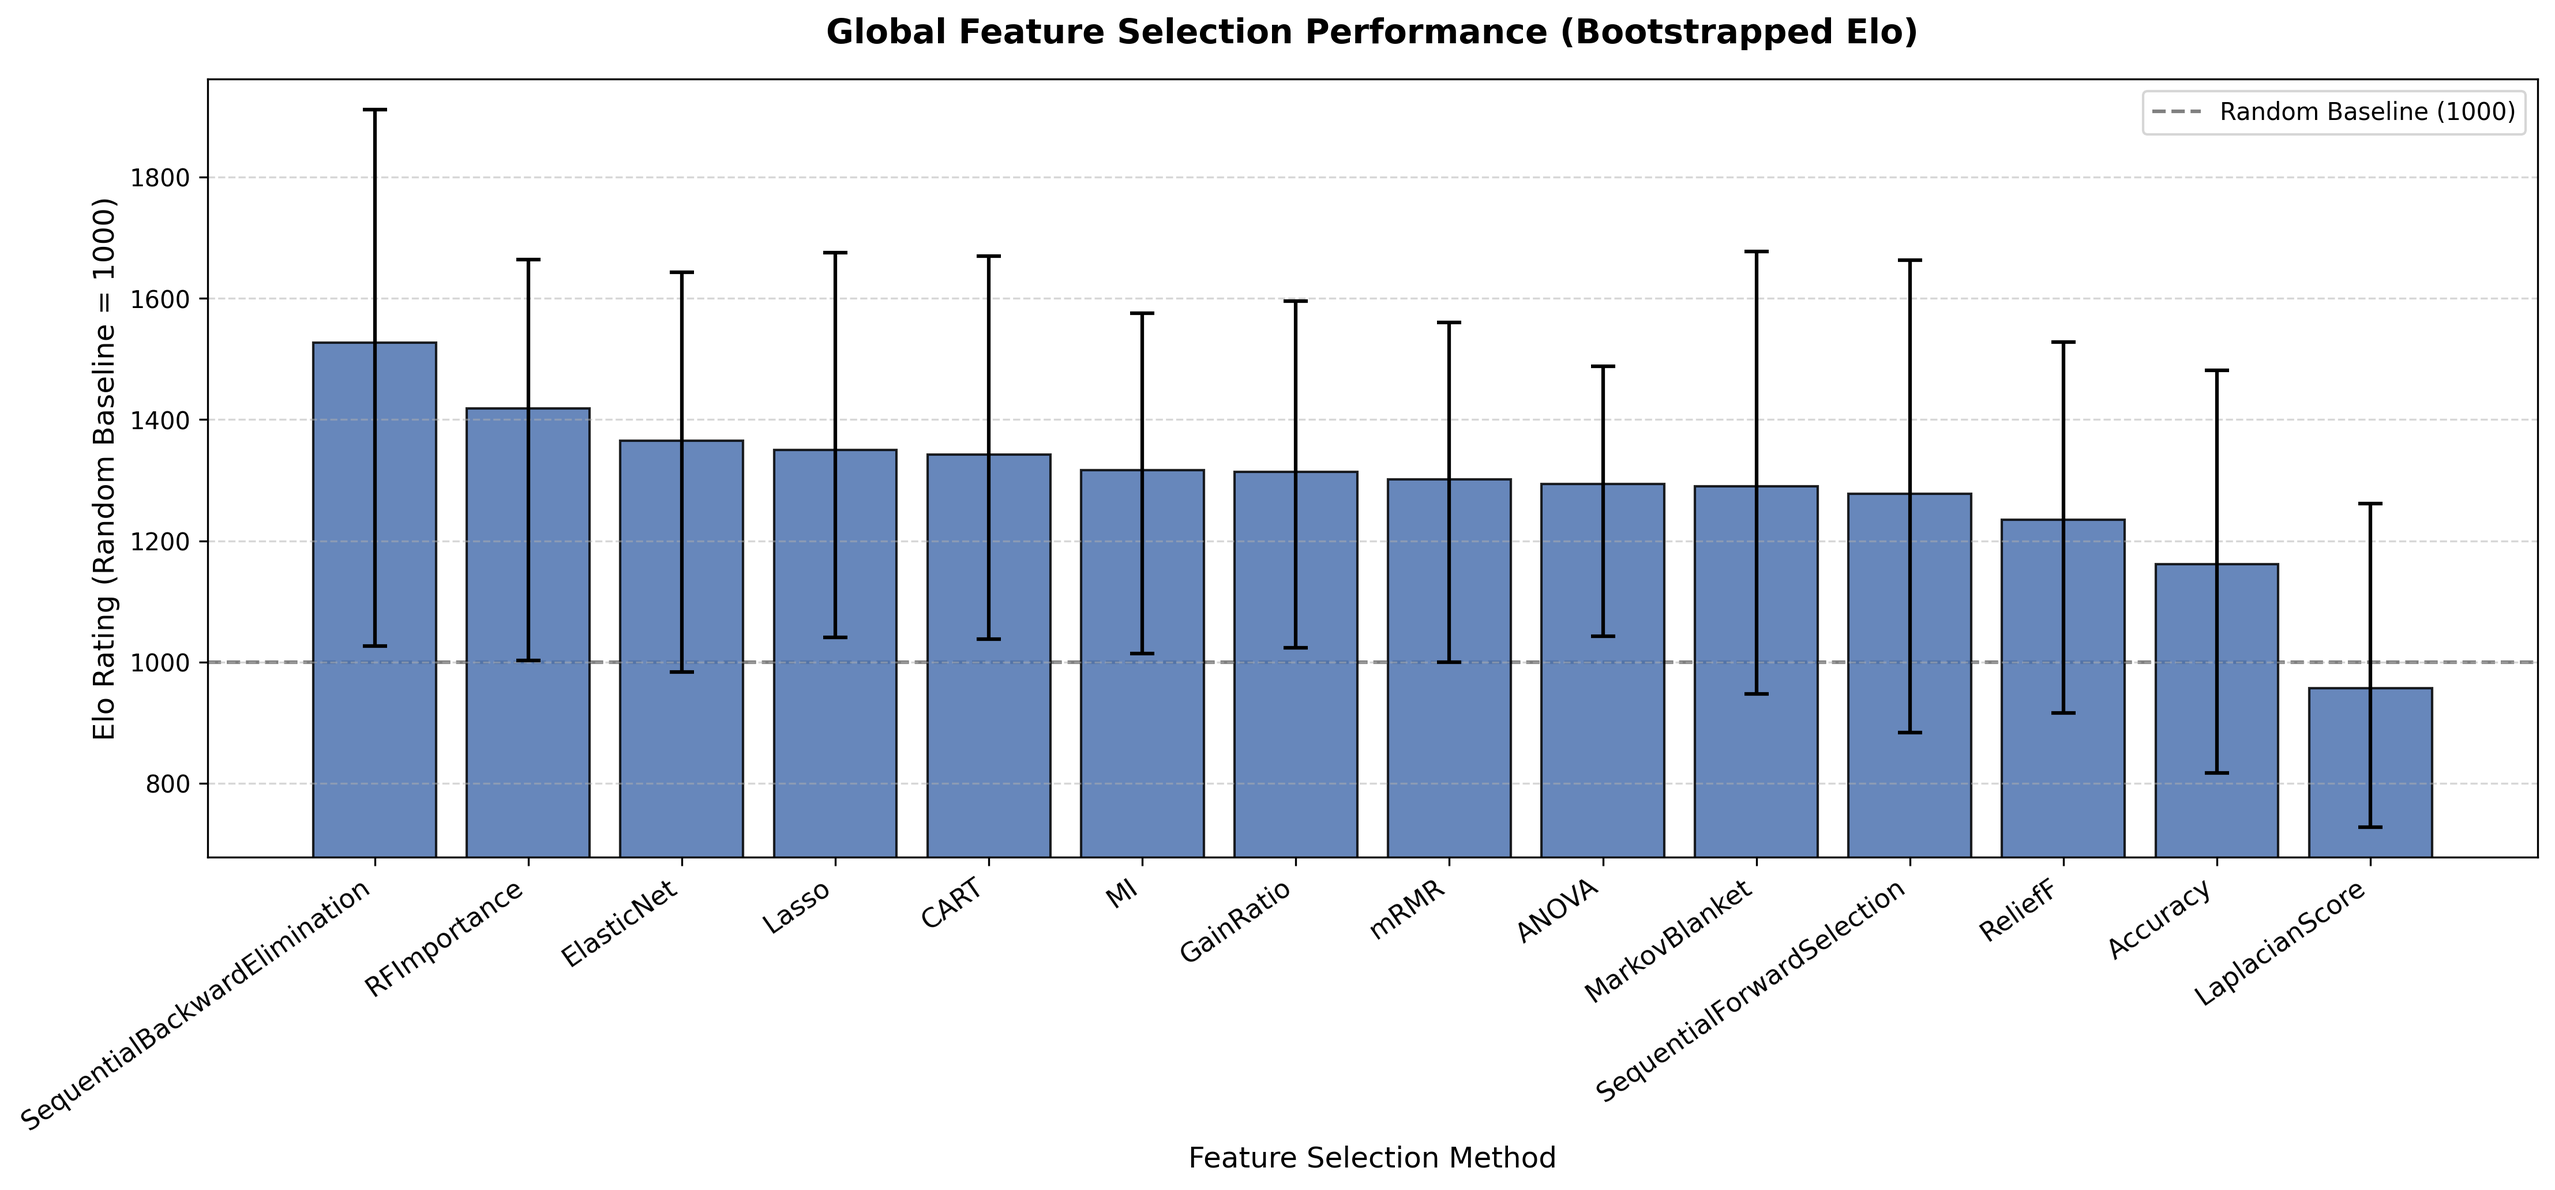
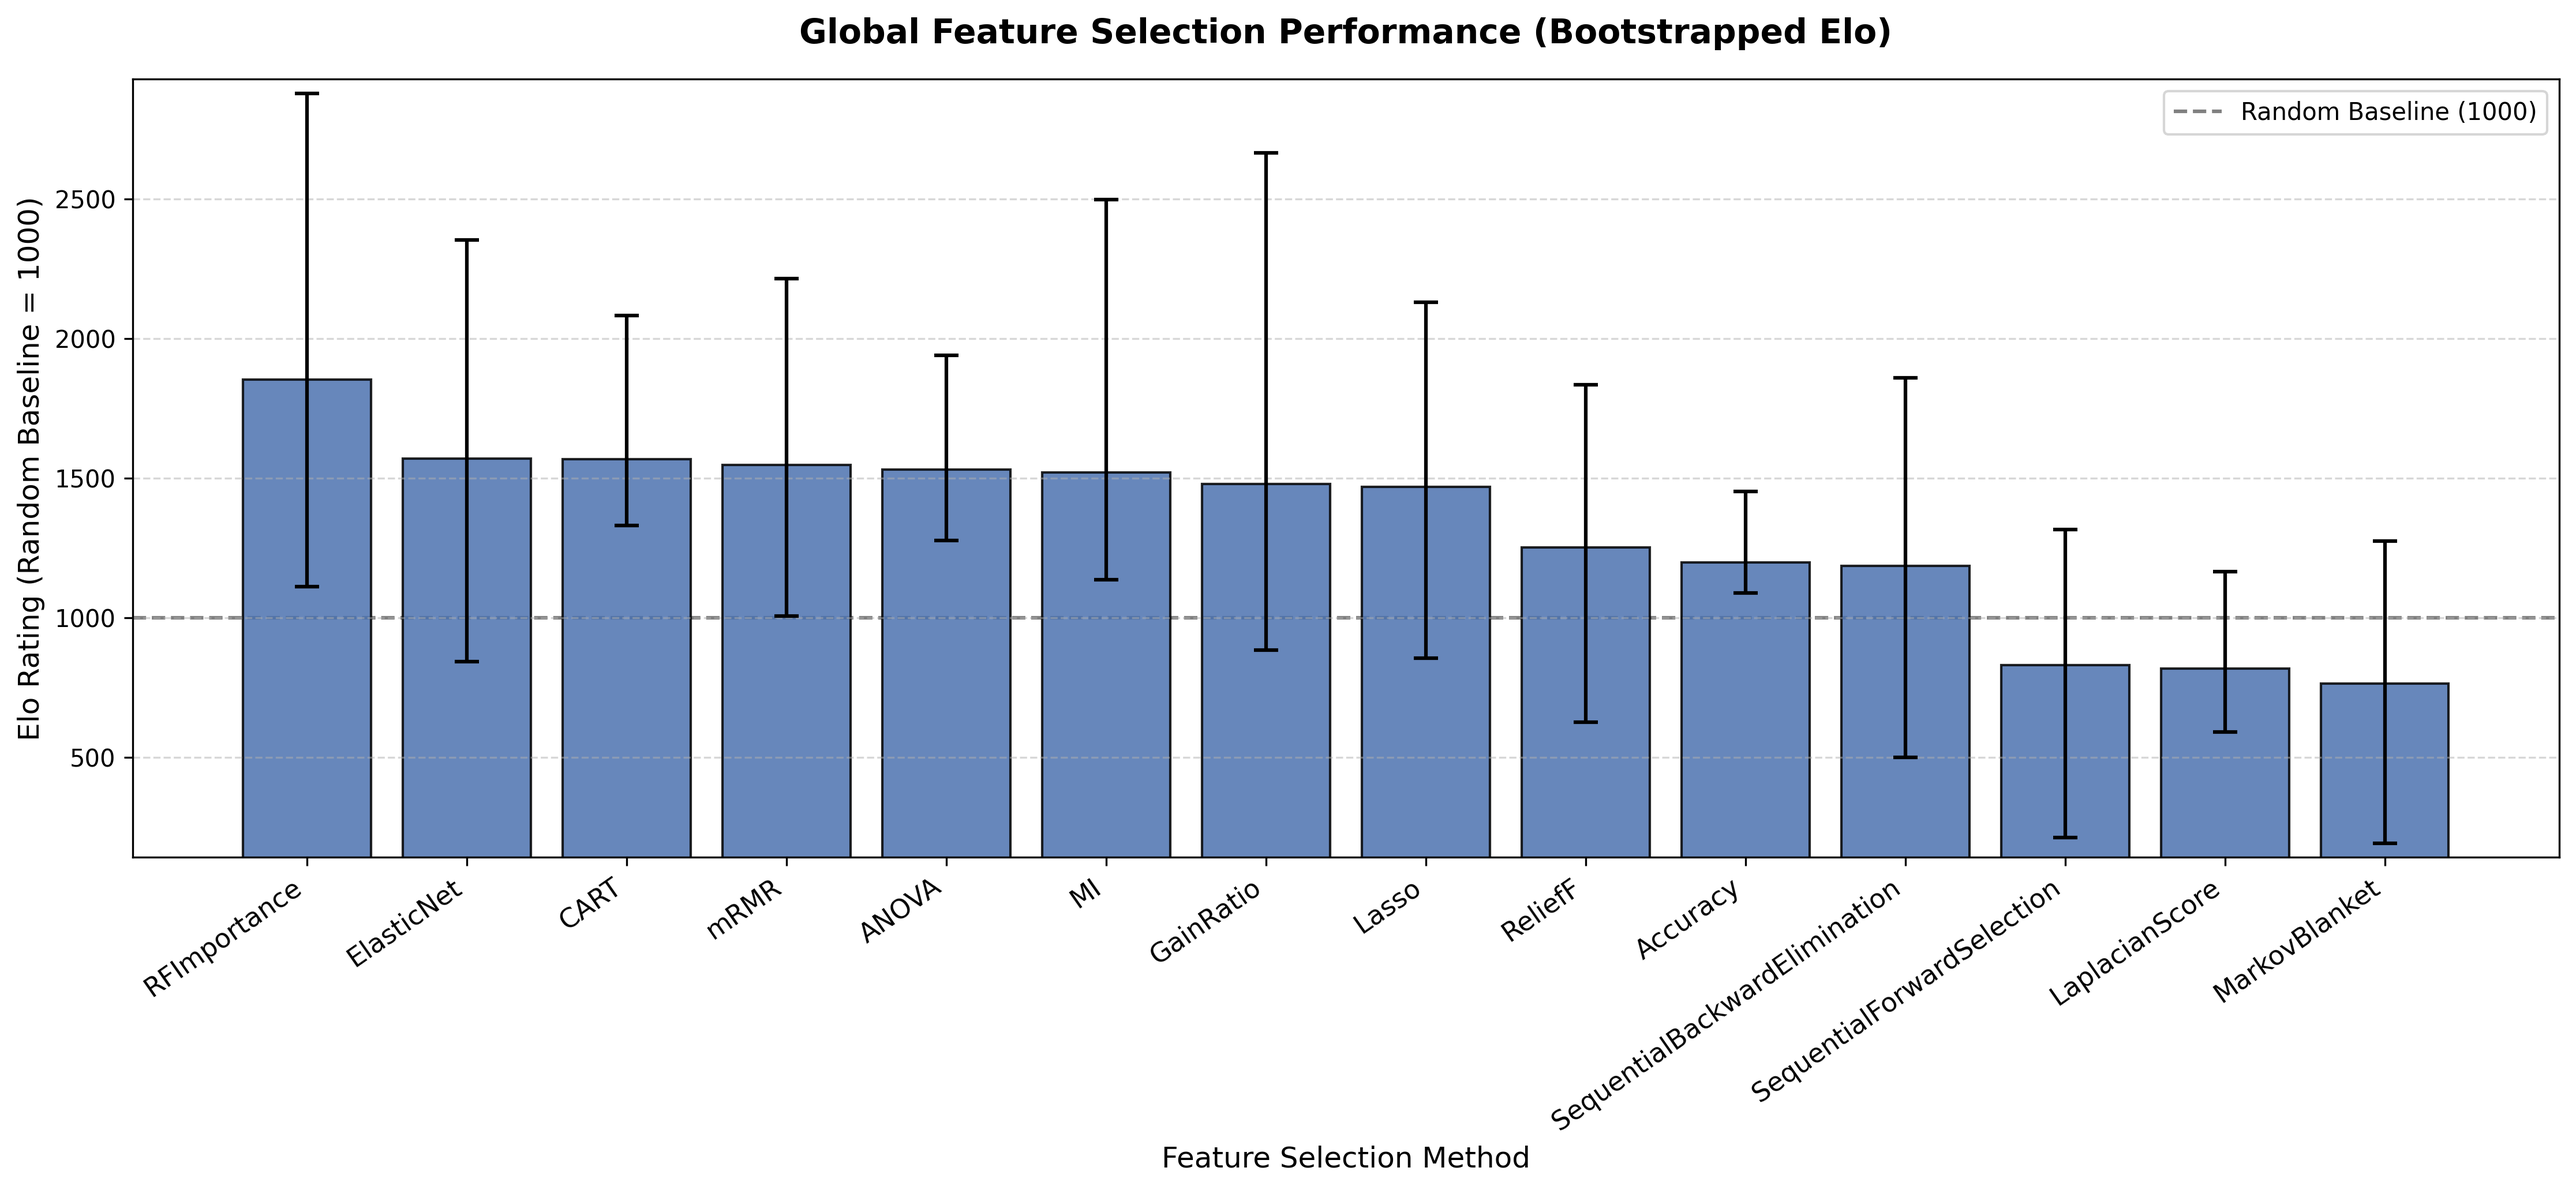
maint: remove tid, so we average over everything

diff --git a/plotting_code/performance/performance_rank_v3.py b/plotting_code/performance/performance_rank_v3.py
@@ -1,3 +1,5 @@
+import ast
+
 import pandas as pd
 import numpy as np
 import random
@@ -19,16 +21,24 @@ def calculate_bootstrapped_elo(df, k_factor=32, n_bootstraps=200, seed=42):
     df = df.copy()
     df = df[df["feature_selection_method"] != "JMIFeatureSelector"]
 
+    def extract_model_cls(model_details):
+        if pd.isna(model_details):
+            return "Unknown"
+        details_dict = ast.literal_eval(str(model_details))
+        return details_dict.get('model_cls', "Unknown")
+
+    df["model_cls"] = df["model_details"].apply(extract_model_cls)
+
     # 2. Average the cross-validation splits to get ONE score per method per dataset
     df_collapsed = df.groupby(
-        ["tid", "metric", "feature_selection_method"]
+        ["metric", "feature_selection_method"]
     )["metric_error"].mean().reset_index()
 
     methods = df_collapsed["feature_selection_method"].unique()
 
     # 3. Pre-compute tasks to speed up bootstrapping
     tasks = []
-    for _, task_df in df_collapsed.groupby(["tid", "metric"]):
+    for _, task_df in df_collapsed.groupby(["metric"]):
         tasks.append(dict(zip(task_df["feature_selection_method"], task_df["metric_error"])))
 
     bootstrap_records = {m: [] for m in methods}
